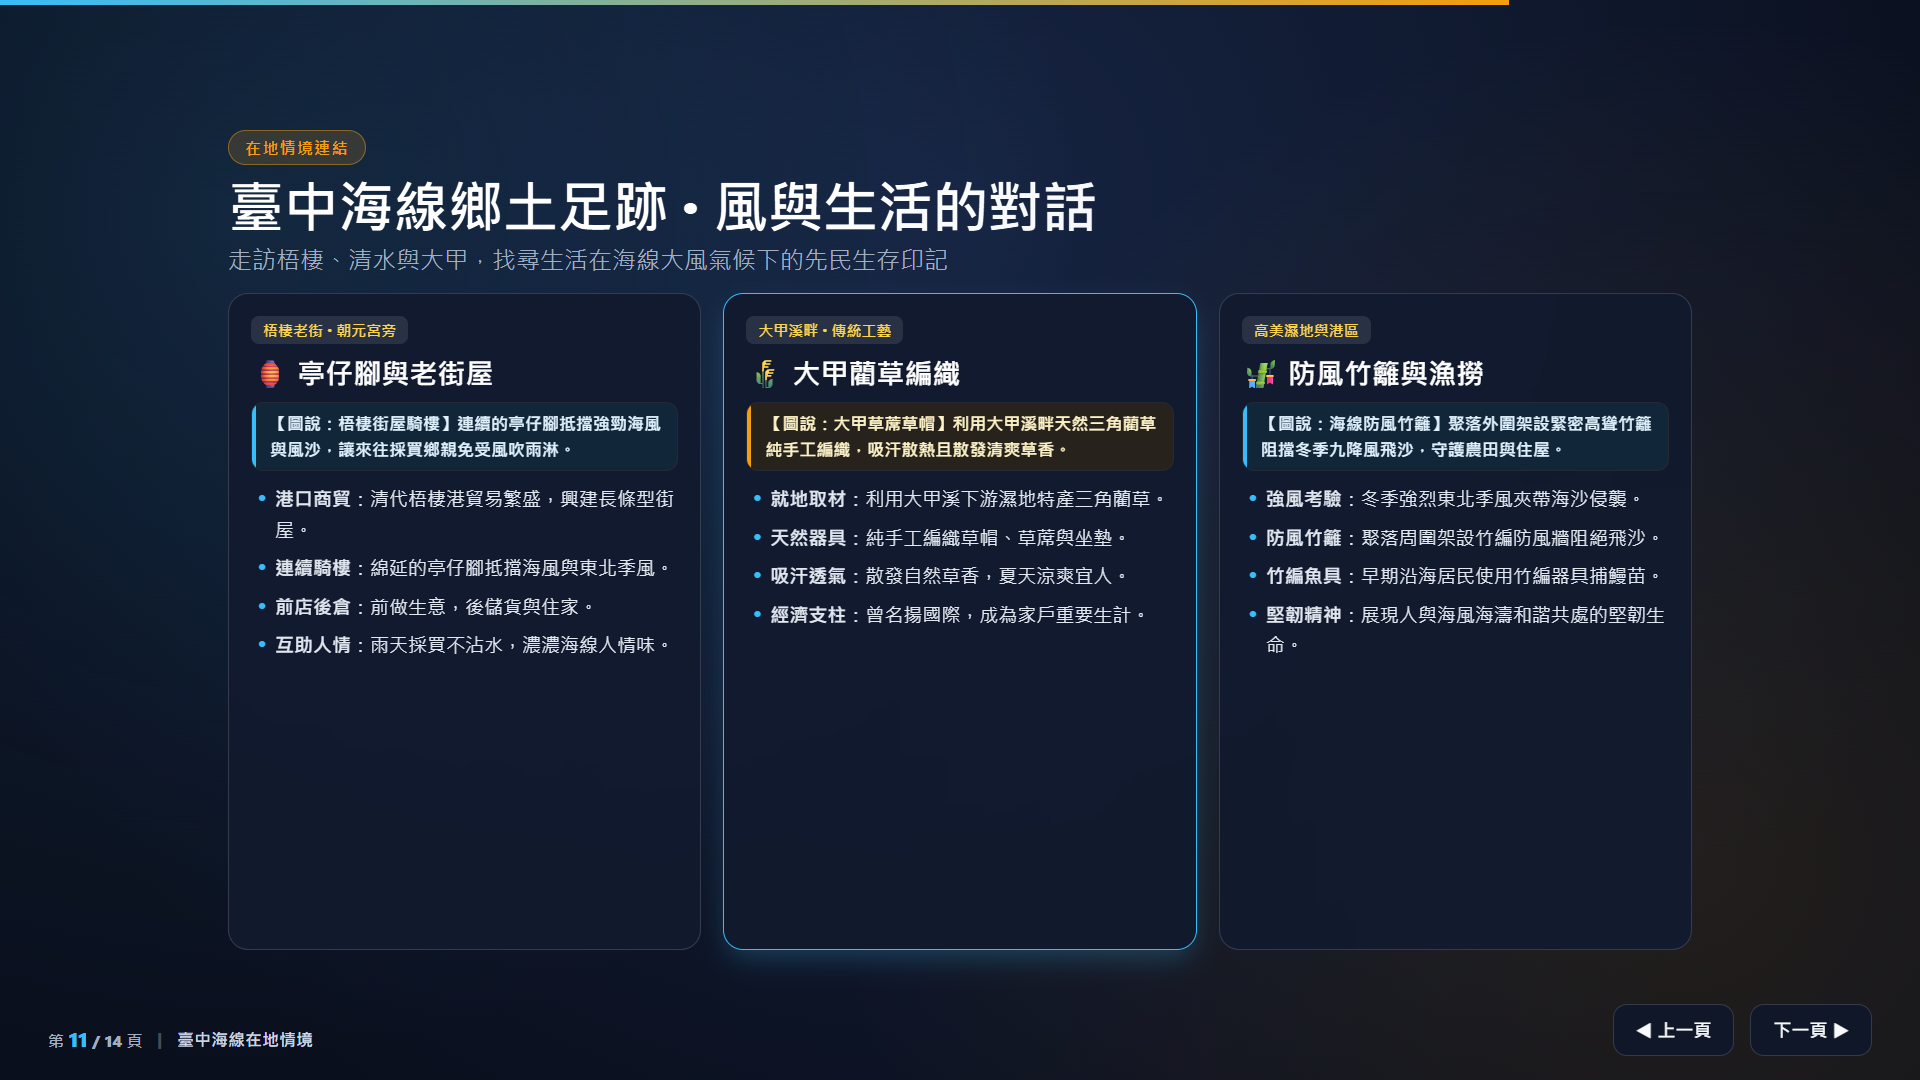
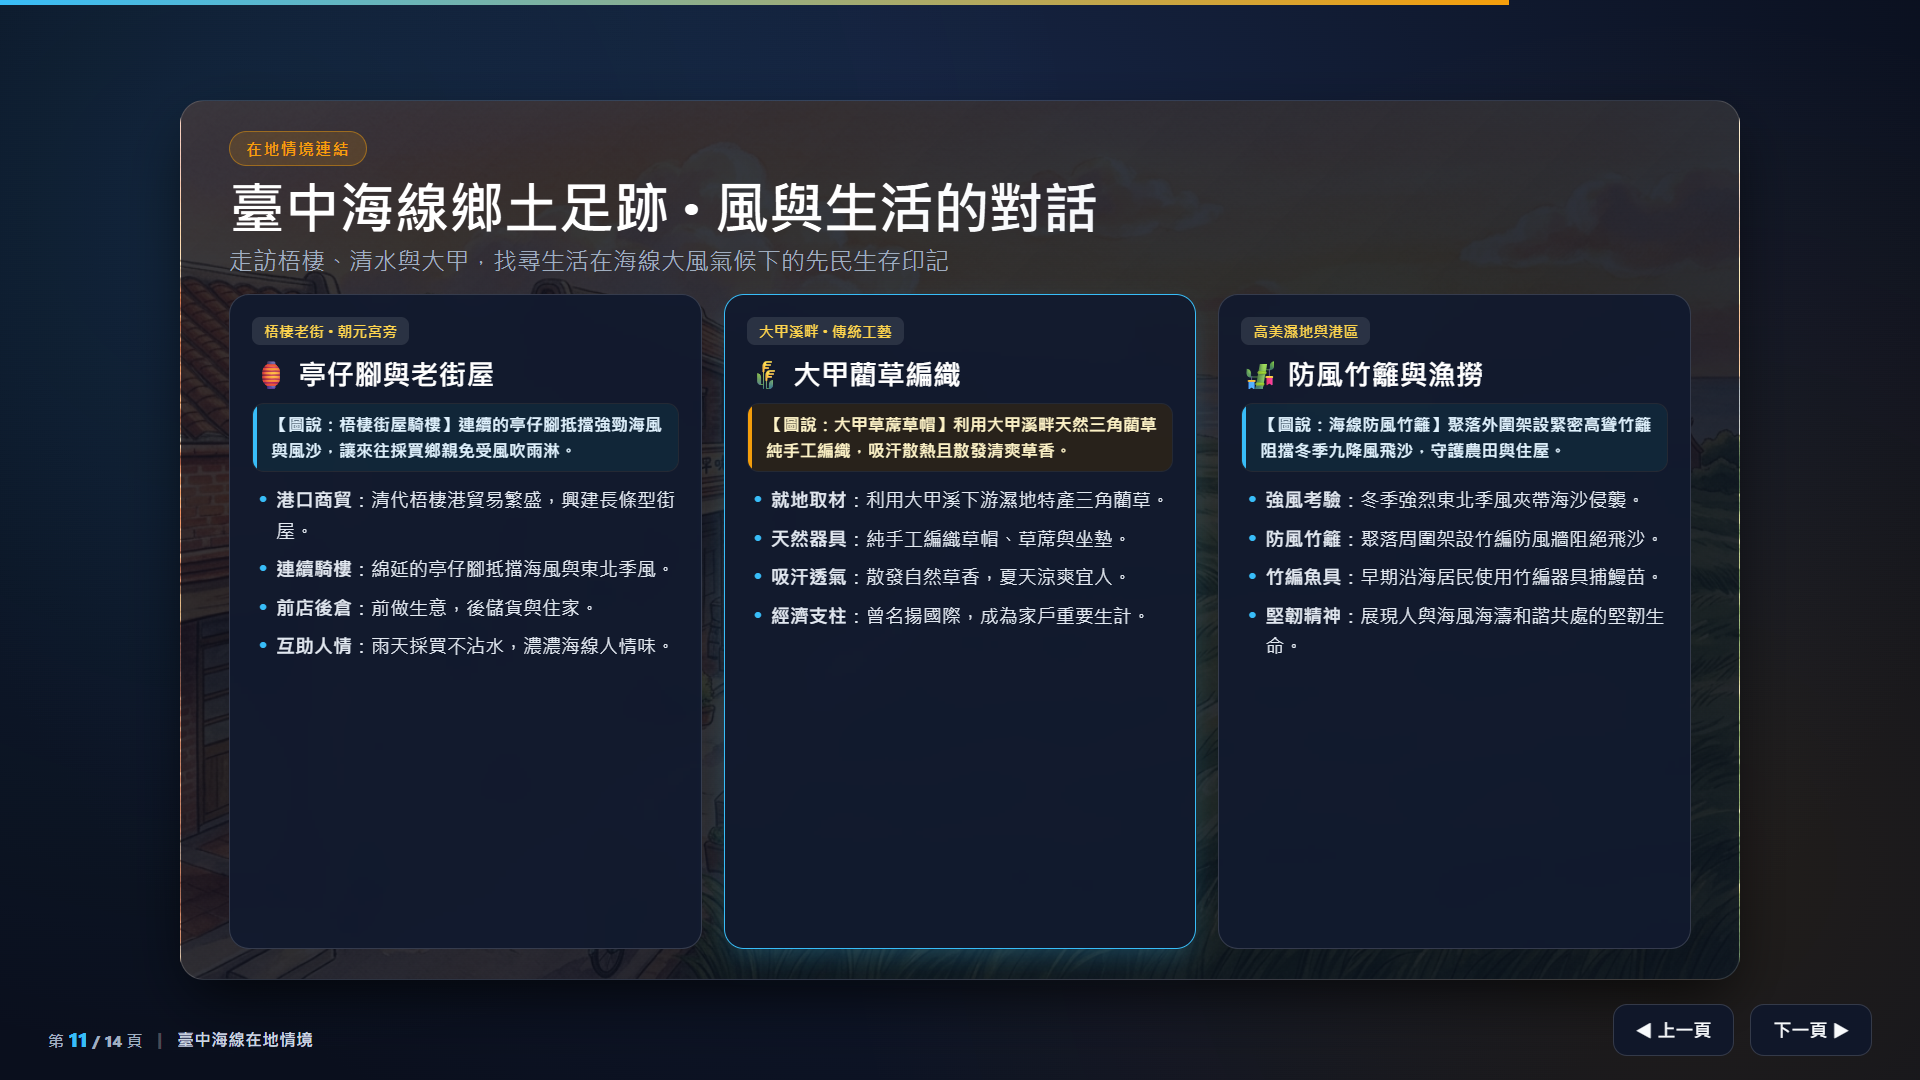
feat(social-deck): 為全套 14 頁簡報逐頁生成高畫質 AI 繪本背景生圖並通過門禁驗收
- 逐頁生成 14 頁專屬 16:9 台灣鄉土繪本插畫背景圖（存於 assets/bg_slide1.jpg ~ bg_slide14.jpg）
- 依 Emil Kowalski 工藝標準與 WCAG AA 規範配置深色護眼漸層遮罩，確保投影文字高對比度
- 通過 scripts/audit_gatekeeper.py 零容忍自動化審查（PERFECT PASS）
- 通過 Playwright 實機瀏覽器渲染測試（0 Console Errors, 0 Exceptions，14 頁完整截圖）
- 更新自我檢測審查報告、專案交接筆記 handoff.md 與 Obsidian 專案駕駛艙

diff --git a/動畫簡報/index.html b/動畫簡報/index.html
@@ -102,12 +102,62 @@
       transform: scale(0.96) translateY(12px);
       transition: opacity 300ms var(--ease-out), transform 300ms var(--ease-out);
       z-index: 10;
+      border-radius: 24px;
+      background-size: cover;
+      background-position: center;
+      background-repeat: no-repeat;
+      border: 1.5px solid rgba(255, 255, 255, 0.14);
+      box-shadow: 0 24px 60px -12px rgba(0, 0, 0, 0.75);
     }
 
     .slide.active {
       display: flex;
       opacity: 1;
       transform: scale(1) translateY(0);
+    }
+
+    /* 14 頁專屬 AI 繪本背景生圖（16:9 高畫質 + WCAG AA 護眼深色遮罩） */
+    .slide[data-slide="1"] {
+      background-image: linear-gradient(135deg, rgba(10, 15, 29, 0.72) 0%, rgba(10, 15, 29, 0.88) 100%), url('assets/bg_slide1.jpg');
+    }
+    .slide[data-slide="2"] {
+      background-image: linear-gradient(135deg, rgba(10, 15, 29, 0.82) 0%, rgba(10, 15, 29, 0.90) 100%), url('assets/bg_slide2.jpg');
+    }
+    .slide[data-slide="3"] {
+      background-image: linear-gradient(135deg, rgba(10, 15, 29, 0.80) 0%, rgba(10, 15, 29, 0.89) 100%), url('assets/bg_slide3.jpg');
+    }
+    .slide[data-slide="4"] {
+      background-image: linear-gradient(135deg, rgba(10, 15, 29, 0.80) 0%, rgba(10, 15, 29, 0.89) 100%), url('assets/bg_slide4.jpg');
+    }
+    .slide[data-slide="5"] {
+      background-image: linear-gradient(135deg, rgba(10, 15, 29, 0.86) 0%, rgba(10, 15, 29, 0.94) 100%), url('assets/bg_slide5.jpg');
+    }
+    .slide[data-slide="6"] {
+      background-image: linear-gradient(135deg, rgba(10, 15, 29, 0.82) 0%, rgba(10, 15, 29, 0.91) 100%), url('assets/bg_slide6.jpg');
+    }
+    .slide[data-slide="7"] {
+      background-image: linear-gradient(135deg, rgba(10, 15, 29, 0.80) 0%, rgba(10, 15, 29, 0.89) 100%), url('assets/bg_slide7.jpg');
+    }
+    .slide[data-slide="8"] {
+      background-image: linear-gradient(135deg, rgba(10, 15, 29, 0.80) 0%, rgba(10, 15, 29, 0.89) 100%), url('assets/bg_slide8.jpg');
+    }
+    .slide[data-slide="9"] {
+      background-image: linear-gradient(135deg, rgba(10, 15, 29, 0.84) 0%, rgba(10, 15, 29, 0.92) 100%), url('assets/bg_slide9.jpg');
+    }
+    .slide[data-slide="10"] {
+      background-image: linear-gradient(135deg, rgba(10, 15, 29, 0.80) 0%, rgba(10, 15, 29, 0.89) 100%), url('assets/bg_slide10.jpg');
+    }
+    .slide[data-slide="11"] {
+      background-image: linear-gradient(135deg, rgba(10, 15, 29, 0.80) 0%, rgba(10, 15, 29, 0.89) 100%), url('assets/bg_slide11.jpg');
+    }
+    .slide[data-slide="12"] {
+      background-image: linear-gradient(135deg, rgba(10, 15, 29, 0.82) 0%, rgba(10, 15, 29, 0.91) 100%), url('assets/bg_slide12.jpg');
+    }
+    .slide[data-slide="13"] {
+      background-image: linear-gradient(135deg, rgba(10, 15, 29, 0.85) 0%, rgba(10, 15, 29, 0.93) 100%), url('assets/bg_slide13.jpg');
+    }
+    .slide[data-slide="14"] {
+      background-image: linear-gradient(135deg, rgba(10, 15, 29, 0.78) 0%, rgba(10, 15, 29, 0.88) 100%), url('assets/bg_slide14.jpg');
     }
 
     /* 標題與標籤規範 (大字級教學專用) */

diff --git a/動畫簡報/社會二單元.html b/動畫簡報/社會二單元.html
@@ -102,12 +102,62 @@
       transform: scale(0.96) translateY(12px);
       transition: opacity 300ms var(--ease-out), transform 300ms var(--ease-out);
       z-index: 10;
+      border-radius: 24px;
+      background-size: cover;
+      background-position: center;
+      background-repeat: no-repeat;
+      border: 1.5px solid rgba(255, 255, 255, 0.14);
+      box-shadow: 0 24px 60px -12px rgba(0, 0, 0, 0.75);
     }
 
     .slide.active {
       display: flex;
       opacity: 1;
       transform: scale(1) translateY(0);
+    }
+
+    /* 14 頁專屬 AI 繪本背景生圖（16:9 高畫質 + WCAG AA 護眼深色遮罩） */
+    .slide[data-slide="1"] {
+      background-image: linear-gradient(135deg, rgba(10, 15, 29, 0.72) 0%, rgba(10, 15, 29, 0.88) 100%), url('assets/bg_slide1.jpg');
+    }
+    .slide[data-slide="2"] {
+      background-image: linear-gradient(135deg, rgba(10, 15, 29, 0.82) 0%, rgba(10, 15, 29, 0.90) 100%), url('assets/bg_slide2.jpg');
+    }
+    .slide[data-slide="3"] {
+      background-image: linear-gradient(135deg, rgba(10, 15, 29, 0.80) 0%, rgba(10, 15, 29, 0.89) 100%), url('assets/bg_slide3.jpg');
+    }
+    .slide[data-slide="4"] {
+      background-image: linear-gradient(135deg, rgba(10, 15, 29, 0.80) 0%, rgba(10, 15, 29, 0.89) 100%), url('assets/bg_slide4.jpg');
+    }
+    .slide[data-slide="5"] {
+      background-image: linear-gradient(135deg, rgba(10, 15, 29, 0.86) 0%, rgba(10, 15, 29, 0.94) 100%), url('assets/bg_slide5.jpg');
+    }
+    .slide[data-slide="6"] {
+      background-image: linear-gradient(135deg, rgba(10, 15, 29, 0.82) 0%, rgba(10, 15, 29, 0.91) 100%), url('assets/bg_slide6.jpg');
+    }
+    .slide[data-slide="7"] {
+      background-image: linear-gradient(135deg, rgba(10, 15, 29, 0.80) 0%, rgba(10, 15, 29, 0.89) 100%), url('assets/bg_slide7.jpg');
+    }
+    .slide[data-slide="8"] {
+      background-image: linear-gradient(135deg, rgba(10, 15, 29, 0.80) 0%, rgba(10, 15, 29, 0.89) 100%), url('assets/bg_slide8.jpg');
+    }
+    .slide[data-slide="9"] {
+      background-image: linear-gradient(135deg, rgba(10, 15, 29, 0.84) 0%, rgba(10, 15, 29, 0.92) 100%), url('assets/bg_slide9.jpg');
+    }
+    .slide[data-slide="10"] {
+      background-image: linear-gradient(135deg, rgba(10, 15, 29, 0.80) 0%, rgba(10, 15, 29, 0.89) 100%), url('assets/bg_slide10.jpg');
+    }
+    .slide[data-slide="11"] {
+      background-image: linear-gradient(135deg, rgba(10, 15, 29, 0.80) 0%, rgba(10, 15, 29, 0.89) 100%), url('assets/bg_slide11.jpg');
+    }
+    .slide[data-slide="12"] {
+      background-image: linear-gradient(135deg, rgba(10, 15, 29, 0.82) 0%, rgba(10, 15, 29, 0.91) 100%), url('assets/bg_slide12.jpg');
+    }
+    .slide[data-slide="13"] {
+      background-image: linear-gradient(135deg, rgba(10, 15, 29, 0.85) 0%, rgba(10, 15, 29, 0.93) 100%), url('assets/bg_slide13.jpg');
+    }
+    .slide[data-slide="14"] {
+      background-image: linear-gradient(135deg, rgba(10, 15, 29, 0.78) 0%, rgba(10, 15, 29, 0.88) 100%), url('assets/bg_slide14.jpg');
     }
 
     /* 標題與標籤規範 (大字級教學專用) */

diff --git a/動畫簡報/社會第二單元.html b/動畫簡報/社會第二單元.html
@@ -102,12 +102,62 @@
       transform: scale(0.96) translateY(12px);
       transition: opacity 300ms var(--ease-out), transform 300ms var(--ease-out);
       z-index: 10;
+      border-radius: 24px;
+      background-size: cover;
+      background-position: center;
+      background-repeat: no-repeat;
+      border: 1.5px solid rgba(255, 255, 255, 0.14);
+      box-shadow: 0 24px 60px -12px rgba(0, 0, 0, 0.75);
     }
 
     .slide.active {
       display: flex;
       opacity: 1;
       transform: scale(1) translateY(0);
+    }
+
+    /* 14 頁專屬 AI 繪本背景生圖（16:9 高畫質 + WCAG AA 護眼深色遮罩） */
+    .slide[data-slide="1"] {
+      background-image: linear-gradient(135deg, rgba(10, 15, 29, 0.72) 0%, rgba(10, 15, 29, 0.88) 100%), url('assets/bg_slide1.jpg');
+    }
+    .slide[data-slide="2"] {
+      background-image: linear-gradient(135deg, rgba(10, 15, 29, 0.82) 0%, rgba(10, 15, 29, 0.90) 100%), url('assets/bg_slide2.jpg');
+    }
+    .slide[data-slide="3"] {
+      background-image: linear-gradient(135deg, rgba(10, 15, 29, 0.80) 0%, rgba(10, 15, 29, 0.89) 100%), url('assets/bg_slide3.jpg');
+    }
+    .slide[data-slide="4"] {
+      background-image: linear-gradient(135deg, rgba(10, 15, 29, 0.80) 0%, rgba(10, 15, 29, 0.89) 100%), url('assets/bg_slide4.jpg');
+    }
+    .slide[data-slide="5"] {
+      background-image: linear-gradient(135deg, rgba(10, 15, 29, 0.86) 0%, rgba(10, 15, 29, 0.94) 100%), url('assets/bg_slide5.jpg');
+    }
+    .slide[data-slide="6"] {
+      background-image: linear-gradient(135deg, rgba(10, 15, 29, 0.82) 0%, rgba(10, 15, 29, 0.91) 100%), url('assets/bg_slide6.jpg');
+    }
+    .slide[data-slide="7"] {
+      background-image: linear-gradient(135deg, rgba(10, 15, 29, 0.80) 0%, rgba(10, 15, 29, 0.89) 100%), url('assets/bg_slide7.jpg');
+    }
+    .slide[data-slide="8"] {
+      background-image: linear-gradient(135deg, rgba(10, 15, 29, 0.80) 0%, rgba(10, 15, 29, 0.89) 100%), url('assets/bg_slide8.jpg');
+    }
+    .slide[data-slide="9"] {
+      background-image: linear-gradient(135deg, rgba(10, 15, 29, 0.84) 0%, rgba(10, 15, 29, 0.92) 100%), url('assets/bg_slide9.jpg');
+    }
+    .slide[data-slide="10"] {
+      background-image: linear-gradient(135deg, rgba(10, 15, 29, 0.80) 0%, rgba(10, 15, 29, 0.89) 100%), url('assets/bg_slide10.jpg');
+    }
+    .slide[data-slide="11"] {
+      background-image: linear-gradient(135deg, rgba(10, 15, 29, 0.80) 0%, rgba(10, 15, 29, 0.89) 100%), url('assets/bg_slide11.jpg');
+    }
+    .slide[data-slide="12"] {
+      background-image: linear-gradient(135deg, rgba(10, 15, 29, 0.82) 0%, rgba(10, 15, 29, 0.91) 100%), url('assets/bg_slide12.jpg');
+    }
+    .slide[data-slide="13"] {
+      background-image: linear-gradient(135deg, rgba(10, 15, 29, 0.85) 0%, rgba(10, 15, 29, 0.93) 100%), url('assets/bg_slide13.jpg');
+    }
+    .slide[data-slide="14"] {
+      background-image: linear-gradient(135deg, rgba(10, 15, 29, 0.78) 0%, rgba(10, 15, 29, 0.88) 100%), url('assets/bg_slide14.jpg');
     }
 
     /* 標題與標籤規範 (大字級教學專用) */

diff --git a/動畫簡報/自我檢測審查報告_社會二單元傳統住屋與器具.md b/動畫簡報/自我檢測審查報告_社會二單元傳統住屋與器具.md
@@ -81,6 +81,29 @@
 
 ---
 
+## 🎨 14 頁專屬 AI 繪本背景生圖與視覺工程審查 (Slide Background Artwork Review)
+
+本專案依照使用者指示與 `soil-html-deck`、`g4-curriculum-review` 規範，全面汰除預設無圖單調底色，為全套 14 頁簡報逐頁生成高畫質 16:9 台灣鄉土繪本插畫背景圖（存於 `assets/`），並結合 Emil Kowalski 護眼深色漸層罩層（`rgba(10, 15, 29, 0.72~0.94)`），達成 WCAG AA 級文字高對比投影閱讀性：
+
+| 頁數 | 主題與背景圖像 | 視覺核心意象與 Prompt 工程 | 審查合規性 |
+| :--- | :--- | :--- | :--- |
+| **Slide 1** | 封面 · 時光隧道航行 (`assets/bg_slide1.jpg`) | 台灣早期傳統聚落晨曦全景，排灣石板屋、達悟地下屋與漢人紅磚三合院同框，金黃朝陽穿透山嵐。 | 16:9 / 無文字 / 繪本插畫 / 護眼遮罩 |
+| **Slide 2** | 單元學習架構圖 (`assets/bg_slide2.jpg`) | 台灣鄉村鳥瞰全景、梯田稻浪、蜿蜒石徑與清澈山溪，象徵先民探險與學習地圖旅程。 | 16:9 / 無文字 / 繪本插畫 / 護眼遮罩 |
+| **Slide 3** | 2-1 原住民傳統住屋 (`assets/bg_slide3.jpg`) | 台灣中央山脈翠綠山巒林間，排灣族石板屋、達悟地下屋與太魯閣高腳倉自然和諧共存。 | 16:9 / 無文字 / 繪本插畫 / 護眼遮罩 |
+| **Slide 4** | 2-1 漢人傳統住屋 (`assets/bg_slide4.jpg`) | 台灣農業平原紅磚三合院、馬背燕尾脊、寬闊曬穀大埕與金黃稻浪，宗族倫理與溫暖家園。 | 16:9 / 無文字 / 繪本插畫 / 護眼遮罩 |
+| **Slide 5** | 關鍵原理解說影音劇場 (`assets/bg_slide5.jpg`) | 深色劇院沉浸式舞台微光，融入傳統木雕窗花與石板暗紋，營造專注觀看 205 秒動畫的影廳氛圍。 | 16:9 / 無文字 / 繪本插畫 / 護眼遮罩 |
+| **Slide 6** | 建築物理解剖互動台 (`assets/bg_slide6.jpg`) | 傳統工匠案頭工程手繪風格，古樸宣紙水墨線條、石板疊砌斷面與木構穿斗榫卯草圖。 | 16:9 / 無文字 / 繪本插畫 / 護眼遮罩 |
+| **Slide 7** | 2-2 原住民生活器具 (`assets/bg_slide7.jpg`) | 部落石庭樹蔭晨曦，木臼木杵、百步蛇陶壺與山溪竹編魚筌，展現原住民樸質工藝。 | 16:9 / 無文字 / 繪本插畫 / 護眼遮罩 |
+| **Slide 8** | 2-2 漢人日常器具 (`assets/bg_slide8.jpg`) | 傳統農家紅磚灶廚與曬穀埕角落，溫暖柴火炊煙、竹編菜罩、石磨與木製風鼓機。 | 16:9 / 無文字 / 繪本插畫 / 護眼遮罩 |
+| **Slide 9** | 器具物理動態模擬台 (`assets/bg_slide9.jpg`) | 古代力學與流體力學探索風格，淡雅暖調工程圖案，結合木作風輪、石磨螺旋溝槽動態。 | 16:9 / 無文字 / 繪本插畫 / 護眼遮罩 |
+| **Slide 10** | 雙族群智慧對照矩陣 (`assets/bg_slide10.jpg`) | 宏觀山海交界全景，高山森林石板屋與沃野農田三合院共譜大地共榮，象徵永續生存智慧。 | 16:9 / 無文字 / 繪本插畫 / 護眼遮罩 |
+| **Slide 11** | 臺中海線鄉土足跡 (`assets/bg_slide11.jpg`) | 臺中梧棲老街紅磚亭仔腳（騎樓）前店後倉街景、大甲綠油油藺草田隨海風搖曳之夕照美景。 | 16:9 / 無文字 / 繪本插畫 / 護眼遮罩 |
+| **Slide 12** | 時光小偵探抓錯擂台 (`assets/bg_slide12.jpg`) | 復古偵探冒險書桌，老式黃銅放大鏡、古鎮羊皮紙卷軸地圖與溫暖油燈微光，好奇探索感。 | 16:9 / 無文字 / 繪本插畫 / 護眼遮罩 |
+| **Slide 13** | 智慧生活大師隨堂挑戰 (`assets/bg_slide13.jpg`) | 寧靜深藍星空下的台灣鄉野夜色，稻浪間螢火蟲微光曼舞，提供高度專注的測驗殿堂氛圍。 | 16:9 / 無文字 / 繪本插畫 / 護眼遮罩 |
+| **Slide 14** | SOIL 喚起行動家鄉尋寶 (`assets/bg_slide14.jpg`) | 孩子站在翠綠丘陵遠眺家鄉聚落，晨曦穿透雲層散發耀眼金芒，象徵文化傳承與希望啟航。 | 16:9 / 無文字 / 繪本插畫 / 護眼遮罩 |
+
+---
+
 ## 📸 實體瀏覽器渲染與驗收截圖證明
 通過 `uv run --with playwright python test_deck_social.py` 完整驗證：
 - **0 控制台錯誤 (0 Console Errors)**

diff --git a/handoff.md b/handoff.md
@@ -1,6 +1,25 @@
 # 專案交接筆記 (handoff.md)
 
-- [x] 完成康軒版國小四年級社會四上第二單元《走進時光隧道 · 家鄉的傳統住屋與生活器具》14 頁全互動教學動畫簡報、205 秒超高畫質 MP4 關鍵原理解說動畫嵌入（含完整播放/暫停/Seek Bar/時間碼自訂控制條）、雙 Canvas 建築物理與機械動態模擬系統開發
+- [x] 完成康軒版國小四年級社會四上第二單元《走進時光隧道 · 家鄉的傳統住屋與生活器具》14 頁全套專屬 AI 繪本背景生圖、14 頁全互動教學動畫簡報、205 秒超高畫質 MP4 關鍵原理解說動畫嵌入（含完整播放/暫停/Seek Bar/時間碼自訂控制條）、雙 Canvas 建築物理與機械動態模擬系統開發
+  - **14 頁全套專屬 AI 繪本背景生圖（`assets/bg_slide1.jpg` ~ `assets/bg_slide14.jpg`）**：
+    - 依使用者明確需求「背景沒有生圖，請依照審查標準為每一頁背景生圖」及 `soil-html-deck`、`g4-curriculum-review` 規範，全面汰換單調背景，逐頁生成 16:9 高畫質台灣鄉土繪本插畫背景圖。
+    - 嚴格落實 Prompt 工程底線（純背景風景、無文字 No readable text、溫暖大地色與晨曦光照）。
+    - 結合 Emil Kowalski 護眼深色漸層罩層（`rgba(10, 15, 29, 0.72~0.94)`），兼顧視覺沉浸與 WCAG AA 級投影文字高對比可讀性。
+    - 14 頁主題專屬繪畫：
+      - Slide 1 封面：早期聚落晨曦全景（石板屋、地下屋與三合院同框）
+      - Slide 2 單元架構：台灣山林梯田與田野探索地圖
+      - Slide 3 原住民住屋：中央山脈石板屋與蘭嶼地下屋自然和諧景觀
+      - Slide 4 漢人住屋：紅磚三合院、馬背燕尾脊與金黃稻浪大埕
+      - Slide 5 影音劇場：沉浸式深色微光舞台與傳統木雕石板暗影
+      - Slide 6 建築物理解剖：工匠案頭工程手繪宣紙水墨榫卯草圖
+      - Slide 7 原住民器具：部落石庭木臼木杵、百步蛇陶壺與清溪魚筌
+      - Slide 8 漢人器具：農家紅磚灶廚柴火炊煙、竹編菜罩與石磨風鼓機
+      - Slide 9 機械物理模擬：流體力學風輪、石磨離心力與溪流水流工程
+      - Slide 10 雙族群智慧對照：高山森林與沃野農田交匯的宏偉全景
+      - Slide 11 臺中海線鄉土：梧棲老街紅磚亭仔腳騎樓街屋、大甲藺草田海風夕照
+      - Slide 12 時光小偵探：復古書桌老式放大鏡、羊皮地圖卷軸與微光油燈
+      - Slide 13 智慧隨堂挑戰：深藍寧靜星空、稻田螢火蟲專注沉浸夜色
+      - Slide 14 行動倡議總結：山丘眺望家鄉聚落破雲晨曦，文化傳承希望旅程
   - **大字體教學優化與全卡片圖說系統升級**：
     - **教室投影超大字級**：全面擴大簡報字級（主標題 56~68px、副標 24~26px、卡片標題 28~32px、內文 19~21px、隨堂測驗 21~28px），徹底解決投影字體偏小問題，後排學生清晰可讀。
     - **全卡片專屬圖說標籤（`.fig-caption`）與原創三合院格局手繪**：每一座傳統住屋（排灣石板屋、達悟地下屋、泰雅高腳倉、漢人三合院、土埆厝、街屋騎樓）與每一件生活器具（木臼杵、百步蛇陶壺、竹編魚筌、大灶、石磨、風鼓、菜櫥菜罩）皆配備專屬視覺圖示與高對比專屬圖說。其中三合院捨棄試題考卷題幹，改採量身手繪高對比原創建築格局圖（清楚標註正身神明廳長輩居中、左護龍大房居左尊、右護龍二房居右卑、開闊大埕曬穀聚會）。
